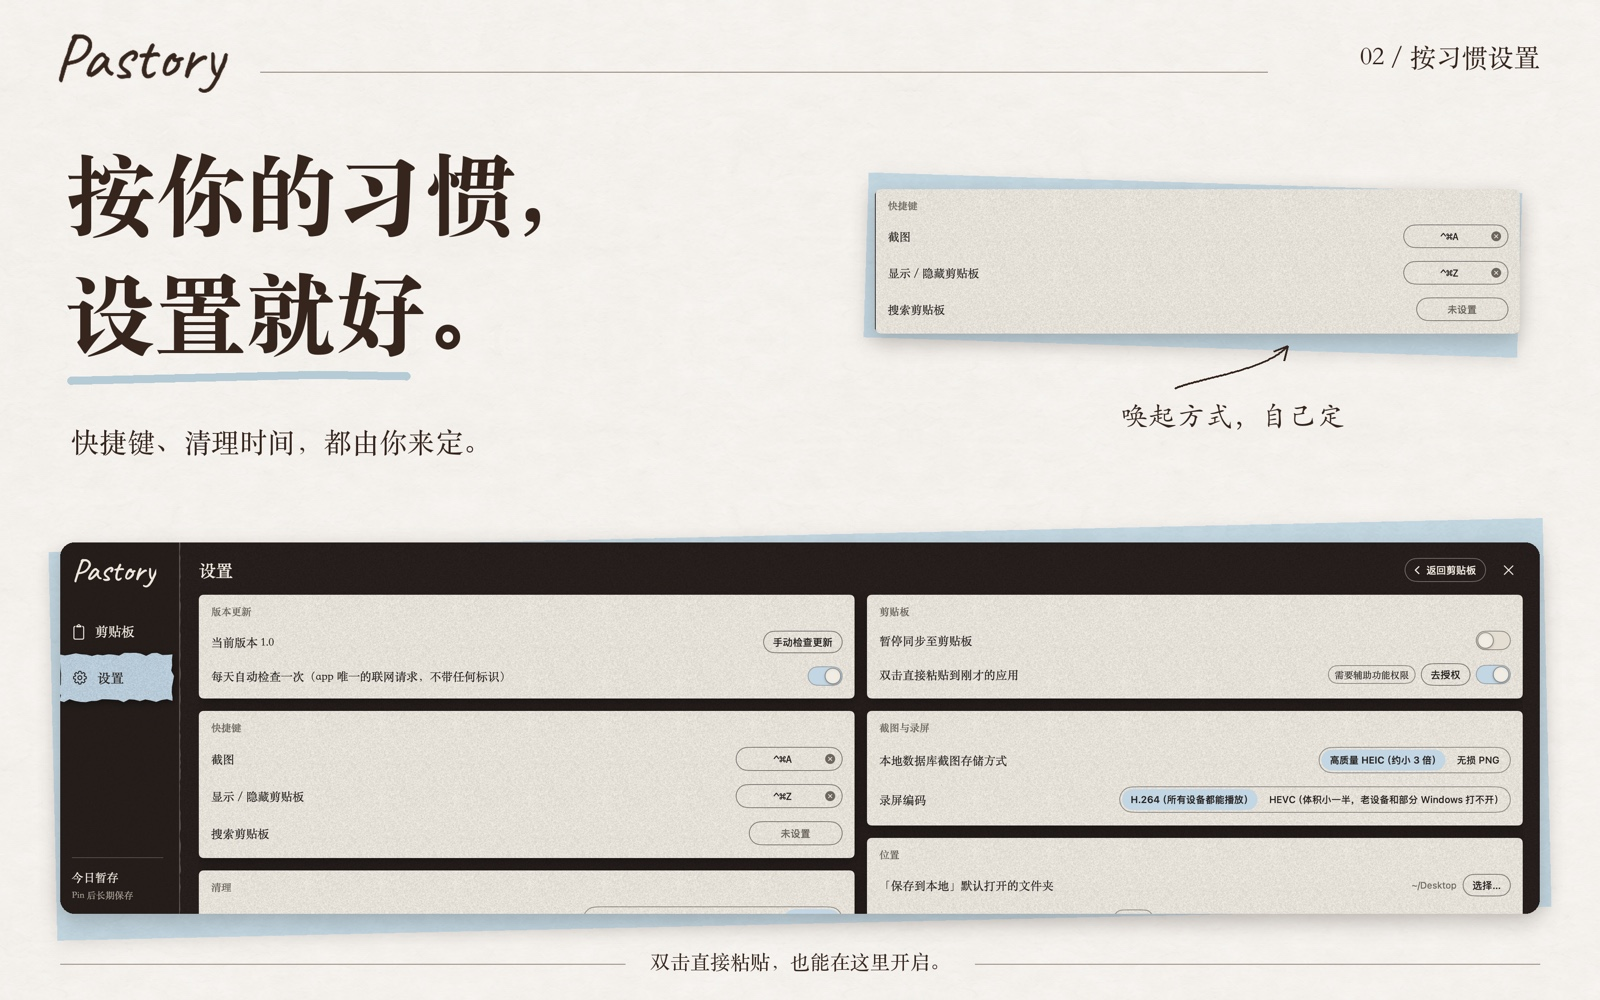
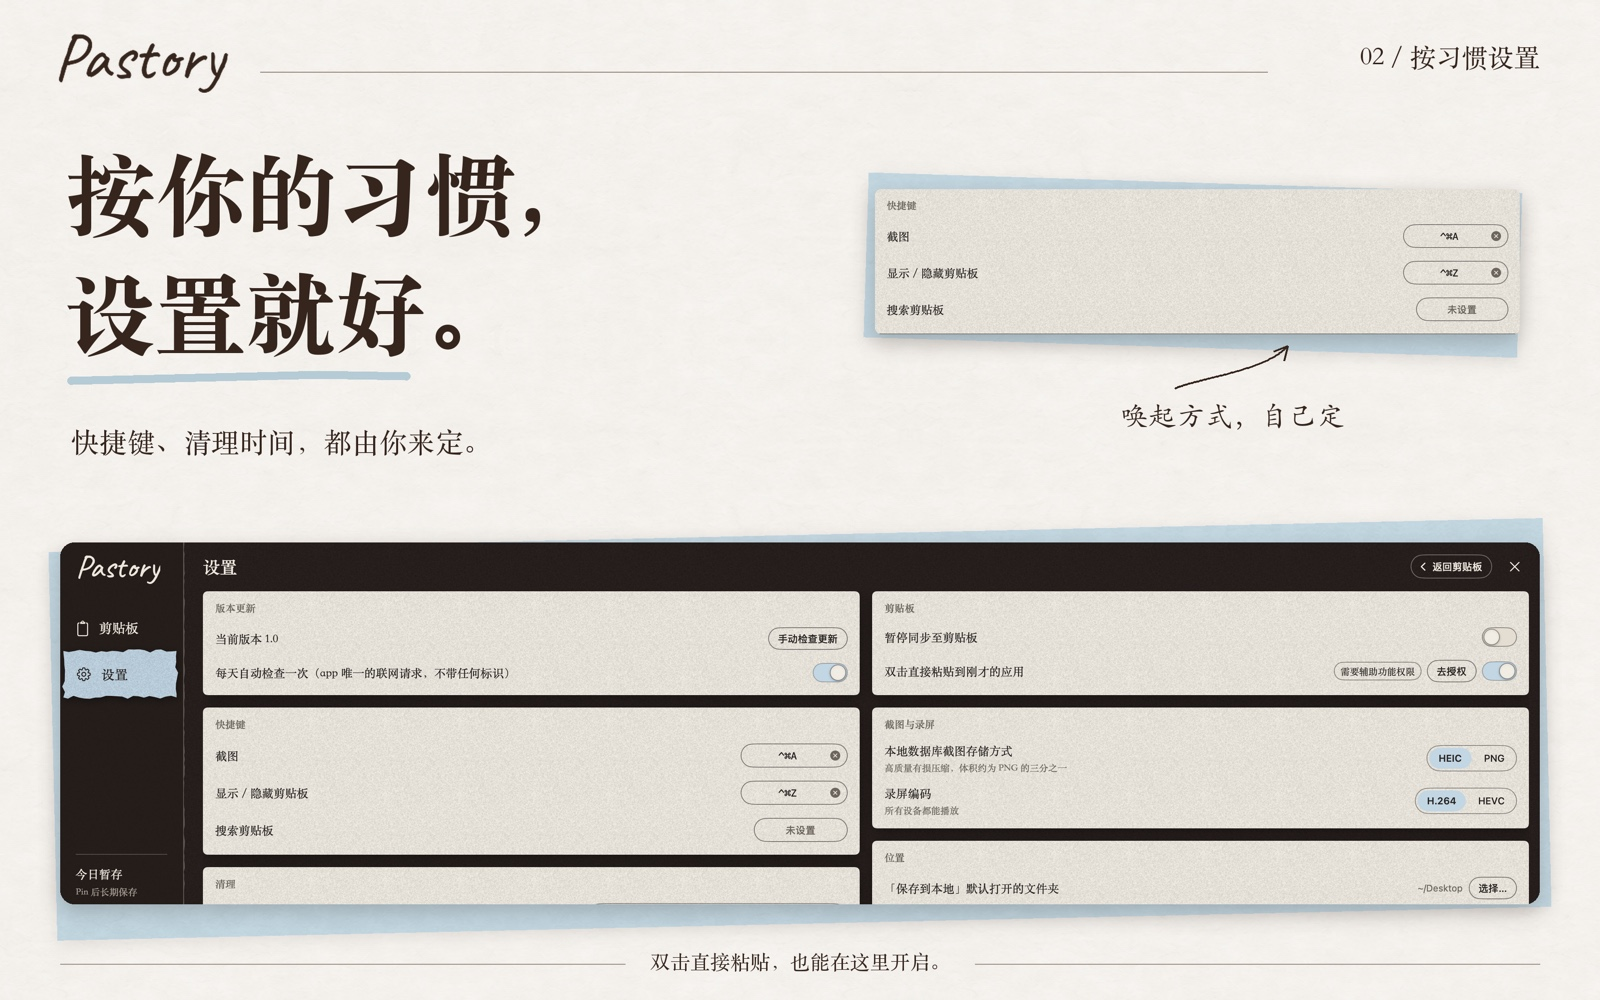
README: English poster set and hero; new settings poster
Claude-Session: https://claude.ai/code/session_011YTEG8e8bbZUvWaRN2PemN

Changed region(s): [[0.0312, 0.558, 0.9688, 0.93], [0.5625, 0.248, 0.625, 0.341]]

diff --git a/README.en.md b/README.en.md
@@ -13,7 +13,7 @@
 <br>
 
 <p align="center">
-  <img src="docs/images/hero-zh.png" alt="The Pastory clipboard" width="920">
+  <img src="docs/images/hero-en.png" alt="The Pastory clipboard" width="920">
 </p>
 
 <br>
@@ -65,7 +65,7 @@ Every copy, screenshots included, is collected in one place, ready to be revisit
 
 **Power move:** if the things you copy are information-dense, have an agent read your Pastory database periodically and turn it into a reviewable Markdown knowledge base.
 
-<img src="docs/images/clipboard-history.jpg" alt="Clipboard history" width="600">
+<img src="docs/images/clipboard-history-en.jpg" alt="Clipboard history" width="600">
 
 ### Screenshots (a small indulgence)
 
@@ -81,7 +81,7 @@ Both can annotate, but neither looks nice doing it. I care about how the font an
 
 So Pastory brings all of that together.
 
-<img src="docs/images/capture-annotations.jpg" alt="Annotate right after capturing" width="600">
+<img src="docs/images/capture-annotations-en.jpg" alt="Annotate right after capturing" width="600">
 
 <br>
 
@@ -100,13 +100,13 @@ Open it with a shortcut of your choice or from the menu bar icon. Everything you
 - **Screenshots from other apps:** WeChat, Feishu, the built-in macOS screenshot — anything that reaches the clipboard gets a card, and can be searched, pinned, and annotated like everything else.
 
 <p>
-  <img src="docs/images/clipboard-history.jpg" alt="All your copy history, in one place" width="49%">
-  <img src="docs/images/clipboard-editing.jpg" alt="Edit what you copied" width="49%">
+  <img src="docs/images/clipboard-history-en.jpg" alt="All your copy history, in one place" width="49%">
+  <img src="docs/images/clipboard-editing-en.jpg" alt="Edit what you copied" width="49%">
 </p>
 <p>
-  <img src="docs/images/clipboard-settings.jpg" alt="Settings" width="32.5%">
-  <img src="docs/images/clipboard-title.jpg" alt="Give it a title" width="32.5%">
-  <img src="docs/images/text-recognition.jpg" alt="Text recognition" width="32.5%">
+  <img src="docs/images/clipboard-settings-en.jpg" alt="Settings" width="32.5%">
+  <img src="docs/images/clipboard-title-en.jpg" alt="Give it a title" width="32.5%">
+  <img src="docs/images/text-recognition-en.jpg" alt="Text recognition" width="32.5%">
 </p>
 
 ### Screenshot & recording
@@ -122,8 +122,8 @@ Colors are captured in the display's own color space, so nothing shifts.
 **Recording:** MP4 / GIF. Pick the format after recording.
 
 <p>
-  <img src="docs/images/capture-annotations.jpg" alt="Annotate right after capturing" width="49%">
-  <img src="docs/images/recording-formats.jpg" alt="Recording formats" width="49%">
+  <img src="docs/images/capture-annotations-en.jpg" alt="Annotate right after capturing" width="49%">
+  <img src="docs/images/recording-formats-en.jpg" alt="Recording formats" width="49%">
 </p>
 
 <br>
